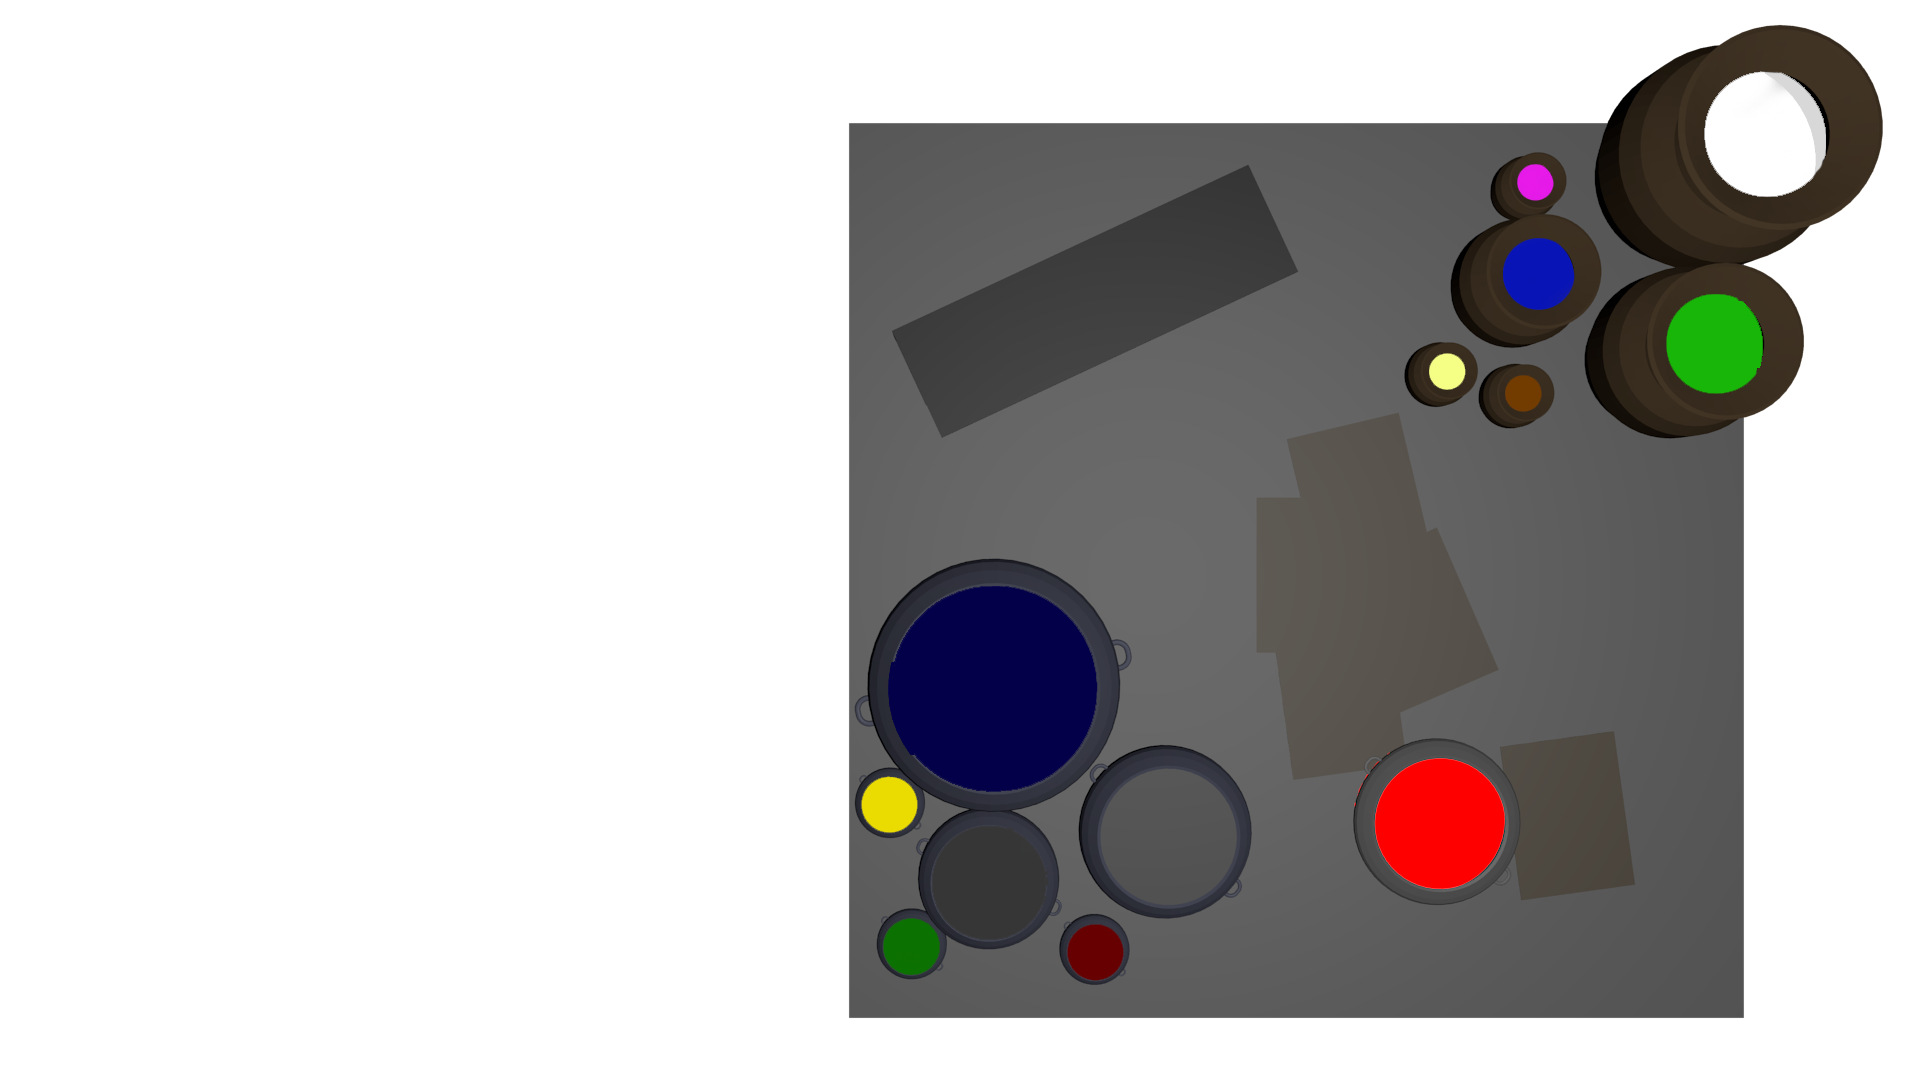
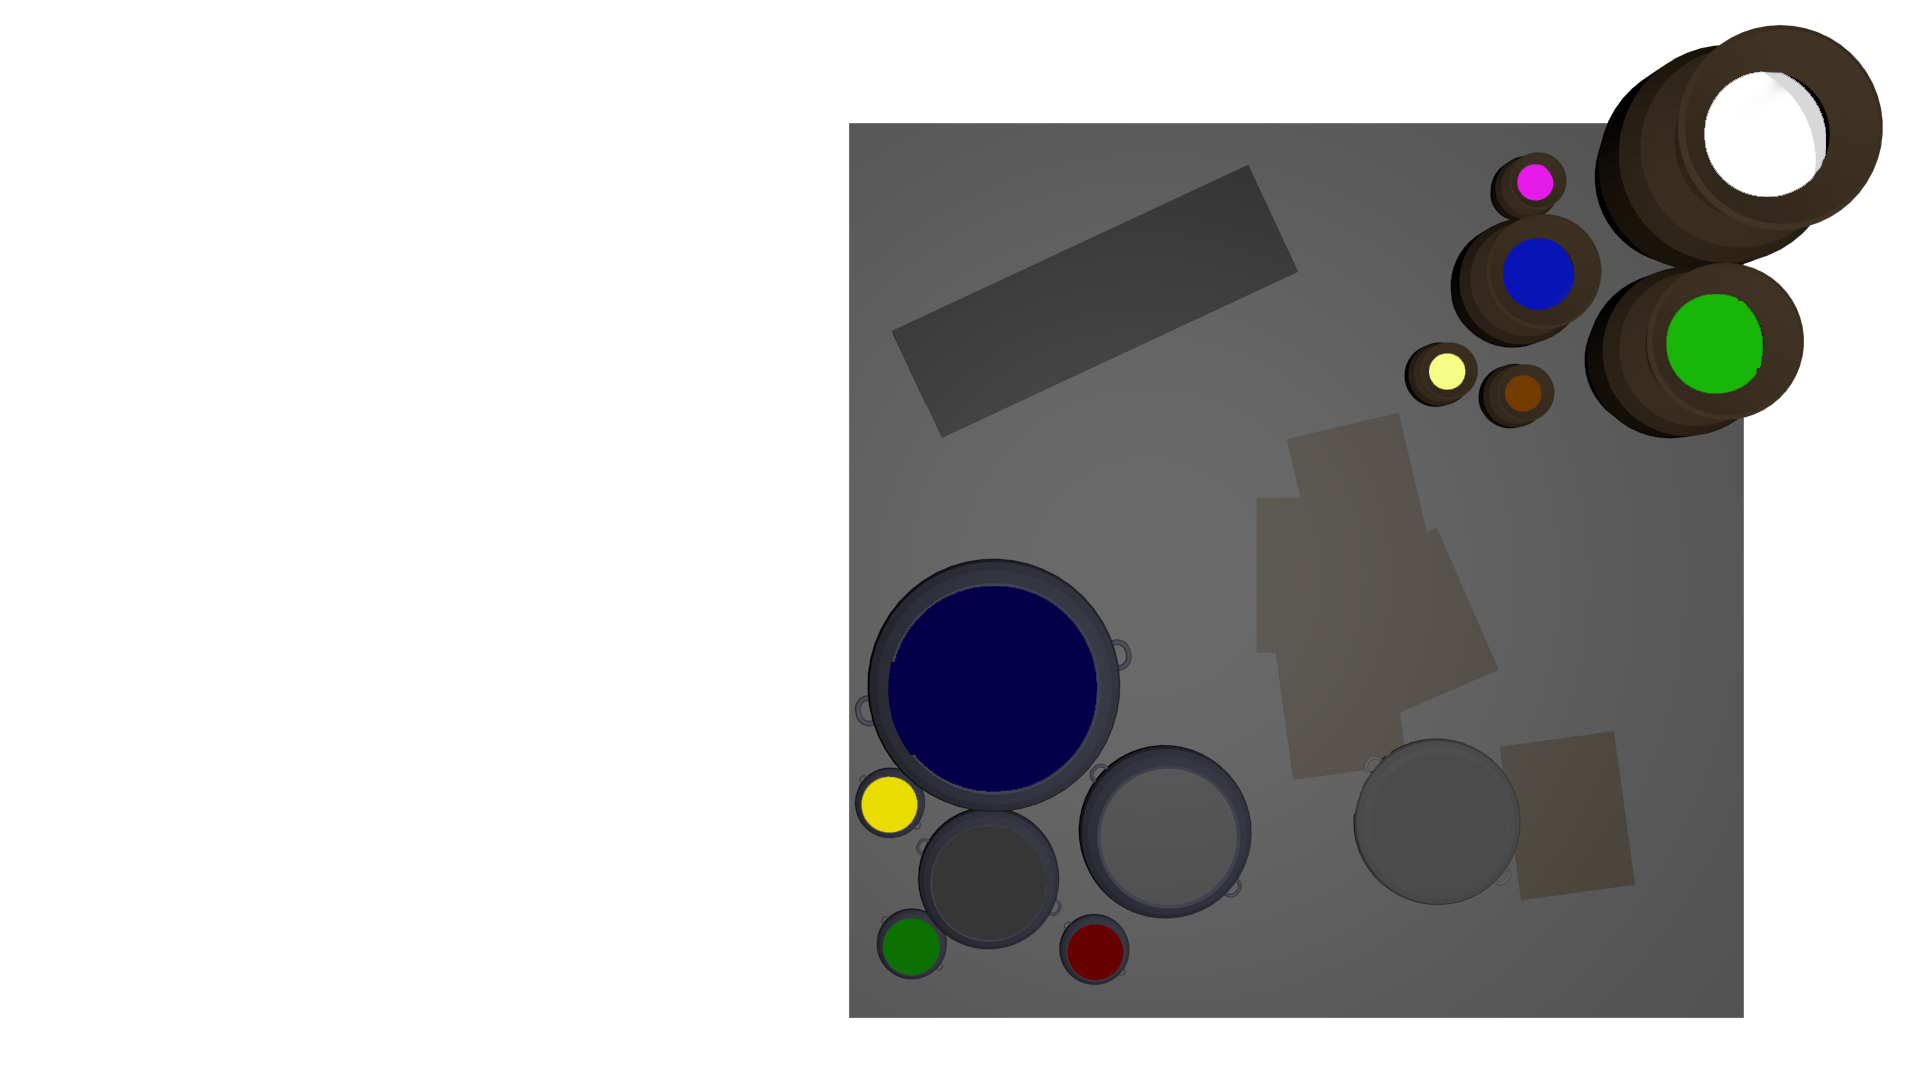
Bug fixes.

Changed region(s): [[0.7188, 0.7028, 0.7812, 0.825]]

diff --git a/src/main/java/com/github/vitineth/map/the/stars/gameplay/room/l2/L2R3.java b/src/main/java/com/github/vitineth/map/the/stars/gameplay/room/l2/L2R3.java
@@ -31,7 +31,7 @@ public class L2R3 extends Room {
     @Override
     public void enterRoom() {
         super.enterRoom();
-        MapTheStars.getMtsMainWindow().getInteractivePanel().launchPuzzle(new AttackPuzzle("l2r1", getClass().getResourceAsStream("/combat/combat.snake.png"), 10,
+        MapTheStars.getMtsMainWindow().getInteractivePanel().launchPuzzle(new AttackPuzzle("l2r1", "Snake", getClass().getResourceAsStream("/combat/combat.snake.png"), 10,
                 new String[]{"You grab the snake by its body, carefully avoiding its fangs, and throw it away from you. It slides on the ground slightly, dazed by the impact and returns its attention to you.", "Your dagger makes contact with the body of the snake and cuts of a small piece of skin. The snake seems to ignore it and just becomes more intent on attacking you", "You crush the end of the snakes tail with the boot as it slithers near."},
                 new String[]{"The snake sees your dagger flying towards it and slithers out of the way with surprising speed.", "The snake slithers rapidly under the table just as your boot is about to make contact", "The snake seems to almost jump slightly as the dagger comes near, avoiding its body by fractions of a centimetre"},
                 "The snake finally gives up its battle and gives into death as blood pools around its corpse.",
@@ -52,15 +52,15 @@ public class L2R3 extends Room {
     @Override
     protected void setupCommands() {
         commands.put(CommandDefaults.EXIT.getRegex(), () -> {
-            if (random.nextInt(5) == 0){
-                MapTheStars.getMtsMainWindow().getInteractivePanel().launchPuzzle(new AttackPuzzle("l2r1", getClass().getResourceAsStream("/combat/combat.snake.png"), 10,
-                new String[]{"You grab the snake by its body, carefully avoiding its fangs, and throw it away from you. It slides on the ground slightly, dazed by the impact and returns its attention to you.", "Your dagger makes contact with the body of the snake and cuts of a small piece of skin. The snake seems to ignore it and just becomes more intent on attacking you", "You crush the end of the snakes tail with the boot as it slithers near."},
+            if (random.nextInt(5) == 0) {
+                MapTheStars.getMtsMainWindow().getInteractivePanel().launchPuzzle(new AttackPuzzle("l2r1", "Snake", getClass().getResourceAsStream("/combat/combat.snake.png"), 10,
+                        new String[]{"You grab the snake by its body, carefully avoiding its fangs, and throw it away from you. It slides on the ground slightly, dazed by the impact and returns its attention to you.", "Your dagger makes contact with the body of the snake and cuts of a small piece of skin. The snake seems to ignore it and just becomes more intent on attacking you", "You crush the end of the snakes tail with the boot as it slithers near."},
                         new String[]{"The snake sees your dagger flying towards it and slithers out of the way with surprising speed.", "The snake slithers rapidly under the table just as your boot is about to make contact", "The snake seems to almost jump slightly as the dagger comes near, avoiding its body by fractions of a centimetre"},
                         "The snake finally gives up its battle and gives into death as blood pools around its corpse.",
                         new String[]{"The snake darts forward and sinks its fangs through the soft top leather of your boot. You cry out in pain and rip it away, praying that they are not venomous.", "The snake slithers up your leg and tightens, cutting of blood flow to your foot and crushing the soft tissue beneath. You rip it away quickly and shake your foot to regain feeling."},
                         new String[]{"The snake goes to dart forward but you step to the side quickly and avoid its attack.", "The snake tries to slither up your leg but you kick it away quickly and get ready to attack.", "The snake tries to come near but you are prepared and get ready to dodge it and attack"},
                         "The venom seems to take a hold of your body and you begin to freeze up, the world fades to black and you pass out."));
-            }else{
+            } else {
                 moveToRoom("l2r4");
             }
         });

diff --git a/src/main/java/com/github/vitineth/map/the/stars/gameplay/puzzle/AlchemyPuzzle.java b/src/main/java/com/github/vitineth/map/the/stars/gameplay/puzzle/AlchemyPuzzle.java
@@ -80,6 +80,7 @@ public class AlchemyPuzzle extends Puzzle {
     public void puzzleLaunched(MTSInteractivePanel panel) {
         super.puzzleLaunched(panel);
         MapTheStars.getMtsMainWindow().getInputArea().setLocked(true);
+        System.out.println("Press the bowl next to the paper to reset the mixture.");
         System.out.println("Lens Enhancement Solution. Note: incorrect mixture causes nausea and some strange visual artifacts -Fei");
         System.out.println(correct.get(0).getAmount() + " drops of " + correct.get(0).getCircle().getCircleID());
     }
@@ -107,15 +108,16 @@ public class AlchemyPuzzle extends Puzzle {
         BufferedImage out = new BufferedImage(table.getWidth(), table.getHeight(), table.getType());
         Graphics2D g = out.createGraphics();
         g.setRenderingHint(RenderingHints.KEY_ANTIALIASING, RenderingHints.VALUE_ANTIALIAS_ON);
-        BufferedImageOp biop = new LookupOp(new ColorMapper(Color.RED, averageColor()), null);
-        g.drawImage(biop.filter(table, null), 0, 0, null);
+        g.drawImage(table, 0, 0, null);
 
+        g.setColor(averageColor());
 //        circles.forEach(circle -> {
 //            g.setColor(Color.RED);
 //            g.setFont(g.getFont().deriveFont(34f));
 //            g.drawOval(circle.getX() - circle.getRadius(), circle.getY() - circle.getRadius(), circle.getRadius() * 2, circle.getRadius() * 2);
 //            g.drawString(circle.getCircleID(), circle.getX(), circle.getY());
 //        });
+        g.fillOval(1440 - (115 / 2), 820 - (115 / 2), 115, 115);
         if (hallucination) {
             g.drawImage(crack, 0, 0, out.getWidth(), out.getHeight(), null);
             g.setColor(new Color(random.nextInt(256), random.nextInt(256), random.nextInt(256), 100));
@@ -197,9 +199,13 @@ public class AlchemyPuzzle extends Puzzle {
                 return;
             }
         }
-        System.out.println("   " + mixture.get(mixture.size() - 1 < 0 ? 0 : mixture.size() - 1).getAmount() + " drops");
-        if (mixture.size() < correct.size() && correct.get(mixture.size() - 1).getAmount() == mixture.get(mixture.size() - 1).getAmount()) {
-            System.out.println(correct.get(mixture.size()).getAmount() + " drops of " + correct.get(mixture.size()).getCircle().getCircleID());
+        if (mixture.size() > 0){
+            System.out.println("   " + mixture.get(mixture.size() - 1 < 0 ? 0 : mixture.size() - 1).getAmount() + " drops");
+            if (mixture.size() < correct.size() && correct.get(mixture.size() - 1).getAmount() == mixture.get(mixture.size() - 1).getAmount()) {
+                System.out.println(correct.get(mixture.size()).getAmount() + " drops of " + correct.get(mixture.size()).getCircle().getCircleID());
+            }
+        }else if(mixture.size() == 0){
+            System.out.println(correct.get(0).getAmount() + " drops of " + correct.get(0).getCircle().getCircleID());
         }
     }
 

diff --git a/src/main/java/com/github/vitineth/map/the/stars/gameplay/puzzle/AttackPuzzle.java b/src/main/java/com/github/vitineth/map/the/stars/gameplay/puzzle/AttackPuzzle.java
@@ -33,7 +33,7 @@ public class AttackPuzzle extends Puzzle {
     private Random random;
     private HashMap<Rectangle, Callback> bounds = new HashMap<>();
     private String reviveRoom = "l1r1";
-
+    private String attackName;
     private String[] attackerHurtList;
     private String[] attackerDodgeList;
     private String attackerDeathMessage;
@@ -41,9 +41,10 @@ public class AttackPuzzle extends Puzzle {
     private String[] playerDodgeList;
     private String playerDeathMessage;
 
-    public AttackPuzzle(String reviveRoom, InputStream attackStream, int attackhp,  String[] attackerHurtList, String[] attackerDodgeList, String attackerDeathMessage, String[] playerHurtList, String[] playerDodgeList, String playerDeathMessage) {
+    public AttackPuzzle(String reviveRoom, String attackName, InputStream attackStream, int attackhp,  String[] attackerHurtList, String[] attackerDodgeList, String attackerDeathMessage, String[] playerHurtList, String[] playerDodgeList, String playerDeathMessage) {
         super(new Dimension(1920, 1080));
         this.reviveRoom = reviveRoom;
+        this.attackName = attackName;
         this.random = new Random();
         this.attackhp = attackhp;
         this.maxHP = attackhp;
@@ -71,7 +72,7 @@ public class AttackPuzzle extends Puzzle {
         {
             g.setColor(Color.WHITE);
             g.setFont(custom.deriveFont(132f));
-            g.drawString("WOLF", 78, 162);
+            g.drawString(attackName.toUpperCase(), 78, 162);
 
             g.setFont(custom.deriveFont(52f));
             g.drawString("HP: " + attackhp + "/20", 91, 284);

diff --git a/src/main/java/com/github/vitineth/map/the/stars/gameplay/room/l2/L2R2.java b/src/main/java/com/github/vitineth/map/the/stars/gameplay/room/l2/L2R2.java
@@ -25,7 +25,7 @@ public class L2R2 extends Room {
     @Override
     public void enterRoom() {
         super.enterRoom();
-        MapTheStars.getMtsMainWindow().getInteractivePanel().launchPuzzle(new AttackPuzzle("l2r1", getClass().getResourceAsStream("/combat/combat.wolf.png"), 20,
+        MapTheStars.getMtsMainWindow().getInteractivePanel().launchPuzzle(new AttackPuzzle("l2r1","Wolf", getClass().getResourceAsStream("/combat/combat.wolf.png"), 20,
                 new String[]{"You swipe at the wolf and catch it slightly. It whimpers in pain but anger fills its eyes", "Your dagger makes contact with the wolf, tearing roughly through its flesh. Blood trickles out mixing with its fur turning it a deep shade of red making the wolf look almost demonic.", "You go to slice at the wolf but it tries to move, instead your hand makes contact with the wolf, its head whips sideways from the impact."},
                 new String[]{"You go to attack the wolf but it dodges!", "The wolf sees you getting ready to attack and sprints sideways with incredible speed. Caught in the momentum, you trip forward and miss the attack.", "The wolf jumps at the same time you go to attack and misses the blade by mere centimetres."},
                 "You manage to kill the wolf, its corpse falls to the ground heavily, blood pooling around its head, mixing with its fur tainting it red.",

diff --git a/src/main/java/com/github/vitineth/map/the/stars/gameplay/room/l2/L2R8.java b/src/main/java/com/github/vitineth/map/the/stars/gameplay/room/l2/L2R8.java
@@ -26,23 +26,17 @@ public class L2R8 extends Room {
 
     @Override
     public void enterRoom() {
-        BufferedImage n = getImage();
-        Graphics2D g = n.createGraphics();
-        Font f;
-
-        try {
-            f= Font.createFont(Font.TRUETYPE_FONT, getClass().getResourceAsStream("/fonts/AMERIKA_.ttf")).deriveFont((float) g.getFont().getSize());
-        } catch (FontFormatException |IOException e) {
-            f = g.getFont();
-        }
-
-        g.setFont(f);
-        g.setFont(f.deriveFont(getBestSize("Thanks for playing", g, n.getWidth() - 70)));
-        g.drawString("Thanks for playing", 35, (n.getHeight() / 2 - 30));
+        new Thread(() -> {
+            try {
+                Thread.sleep(500);
+                getPlayer().setLevel(MapTheStars.getLevels().get("L3"));
+                getPlayer().setRoom(getPlayer().getLevel().getStarting());
+                getPlayer().getRoom().enterRoom();
+            } catch (InterruptedException e) {
+                e.printStackTrace();
+            }
+        }).start();
         super.enterRoom();
-        MapTheStars.getMtsMainWindow().getInputArea().setLocked(true);
-        MapTheStars.getMtsMainWindow().getOutputPane().setLocked(true);
-        System.out.println("Game over! Thanks for playing!");
     }
 
     private float getBestSize(String text, Graphics g, int max) {

diff --git a/src/main/java/com/github/vitineth/map/the/stars/gameplay/room/l1/L1R6.java b/src/main/java/com/github/vitineth/map/the/stars/gameplay/room/l1/L1R6.java
@@ -50,12 +50,13 @@ public class L1R6 extends Room {
     protected void setupCommands() {
         commands.put(CommandDefaults.PICK_UP + "BOTTLE(S)?", () -> System.out.println("you don't trust yourself to pick up the correct bottle without knowing what Fei has said or written."));
         commands.put(CommandDefaults.PICK_UP + "POT(S)?", () -> System.out.println("you don't trust yourself to pick up the correct pot without knowing what Fei ahs said or written."));
-        commands.put(CommandDefaults.INSPECT + "(NOTE(S)?|PAPER(S)?|WRITING(S)?)", () -> {
+        commands.put("((" + CommandDefaults.INSPECT + ")|(READ ))" + "(NOTE(S)?|PAPER(S)?|WRITING(S)?)", () -> {
             if (puzzleComplete) {
                 System.out.println("You've already looked over the papers and completed Fei's instructions.");
             } else {
                 System.out.println("the notes are filled with various equations and formulas, presumably how to make various mixtures and recipes. Towards the bottom of the second page is a recipe titled 'Lens enhancement solution' ");
                 MapTheStars.getMtsMainWindow().getInteractivePanel().launchPuzzle(new AlchemyPuzzle());
+                puzzleComplete = true;
             }
         });
         commands.put(CommandDefaults.EXIT.getRegex(), () -> moveToRoom("l1r4"));

diff --git a/src/main/java/com/github/vitineth/map/the/stars/gameplay/room/l3/L3R3.java b/src/main/java/com/github/vitineth/map/the/stars/gameplay/room/l3/L3R3.java
@@ -105,7 +105,14 @@ public class L3R3 extends Room {
 
     @Override
     protected void setupCommands() {
-        commands.put("(TALK( WITH| TO| AT)?|INTERACT( WITH| TO| AT)?|CONVERSE( WITH| TO| AT)?)|(" + CommandDefaults.USE + ")|(" + CommandDefaults.INSPECT + ")( KIND| EMPEROR| MAN| THRONE| PERSON)?", () -> {
+        System.out.println(CommandDefaults.USE.getRegex().substring(0, CommandDefaults.USE.getRegex().length() - 1));
+        commands.put(CommandDefaults.USE.getRegex() + "(KING|EMPEROR|MAN|THRONE|PERSON)", () -> {
+            MapTheStars.getMtsMainWindow().getInteractivePanel().launchPuzzle(new ChatPuzzle(manager));
+        });
+        commands.put(CommandDefaults.INSPECT.getRegex() + "(KING|EMPEROR|MAN|THRONE|PERSON)", () -> {
+            MapTheStars.getMtsMainWindow().getInteractivePanel().launchPuzzle(new ChatPuzzle(manager));
+        });
+        commands.put("(TALK|INTERACT|CONVERSE)( WITH| TO| AT)?( KING| EMPEROR| MAN| THRONE| PERSON)", () -> {
             MapTheStars.getMtsMainWindow().getInteractivePanel().launchPuzzle(new ChatPuzzle(manager));
         });
     }

diff --git a/src/main/java/com/github/vitineth/map/the/stars/gameplay/puzzle/StarMapPuzzle.java b/src/main/java/com/github/vitineth/map/the/stars/gameplay/puzzle/StarMapPuzzle.java
@@ -1,5 +1,7 @@
 package com.github.vitineth.map.the.stars.gameplay.puzzle;
 
+import com.github.vitineth.map.the.stars.log.Log;
+
 import javax.imageio.ImageIO;
 import java.awt.*;
 import java.awt.event.KeyEvent;
@@ -7,6 +9,7 @@ import java.awt.event.MouseEvent;
 import java.awt.geom.AffineTransform;
 import java.awt.image.BufferedImage;
 import java.io.IOException;
+import java.util.Arrays;
 import java.util.Random;
 
 /**
@@ -122,7 +125,7 @@ public class StarMapPuzzle extends Puzzle {
             if (steps[shift]>= 6) steps[shift] = 0;
         }
         panel.repaint();
-
+        Log.d("StarMapPuzzle", Arrays.toString(steps));
         if (steps[0] == 0 && steps[1] == 0 && steps[2] == 0 && steps[3] == 0){
             panel.completePuzzle();
             panel.repaint();

diff --git a/src/main/java/com/github/vitineth/map/the/stars/gameplay/room/l2/L2R4.java b/src/main/java/com/github/vitineth/map/the/stars/gameplay/room/l2/L2R4.java
@@ -67,6 +67,6 @@ public class L2R4 extends Room {
             puzzle.setCompleteCallback(() -> moveToRoom("l2r5"));
             MapTheStars.getMtsMainWindow().getInteractivePanel().launchPuzzle(puzzle);
         });
-        commands.put("(" + CommandDefaults.EXIT.getRegex() + ")|(" + CommandDefaults.DOOR + "(SOUTH|BOTTOM|BACK|EXIT|BACKWARDS) DOOR", () -> System.out.println("Your exit is blocked by some strange looking device. Maybe you should take a look"));
+        commands.put("(" + CommandDefaults.EXIT.getRegex() + ")|(" + CommandDefaults.DOOR + "(SOUTH|BOTTOM|BACK|EXIT|BACKWARDS) DOOR)", () -> System.out.println("Your exit is blocked by some strange looking device. Maybe you should take a look"));
     }
 }
